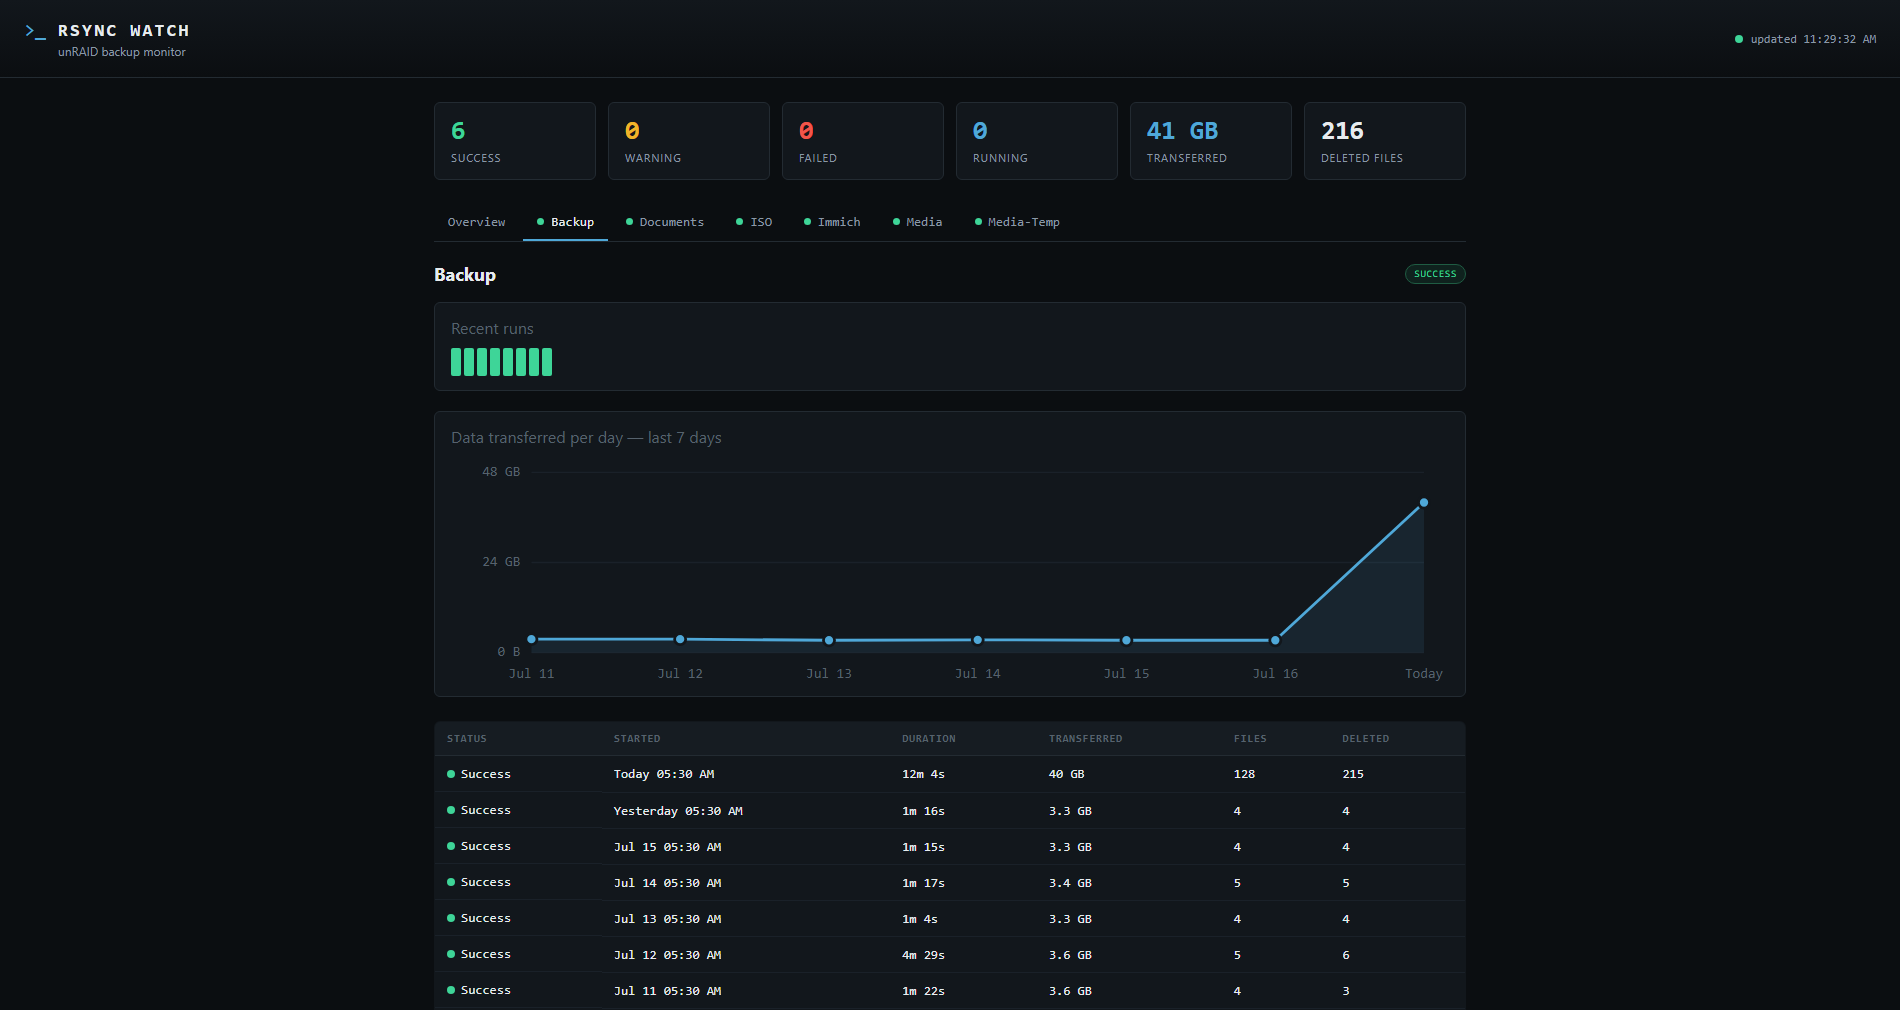
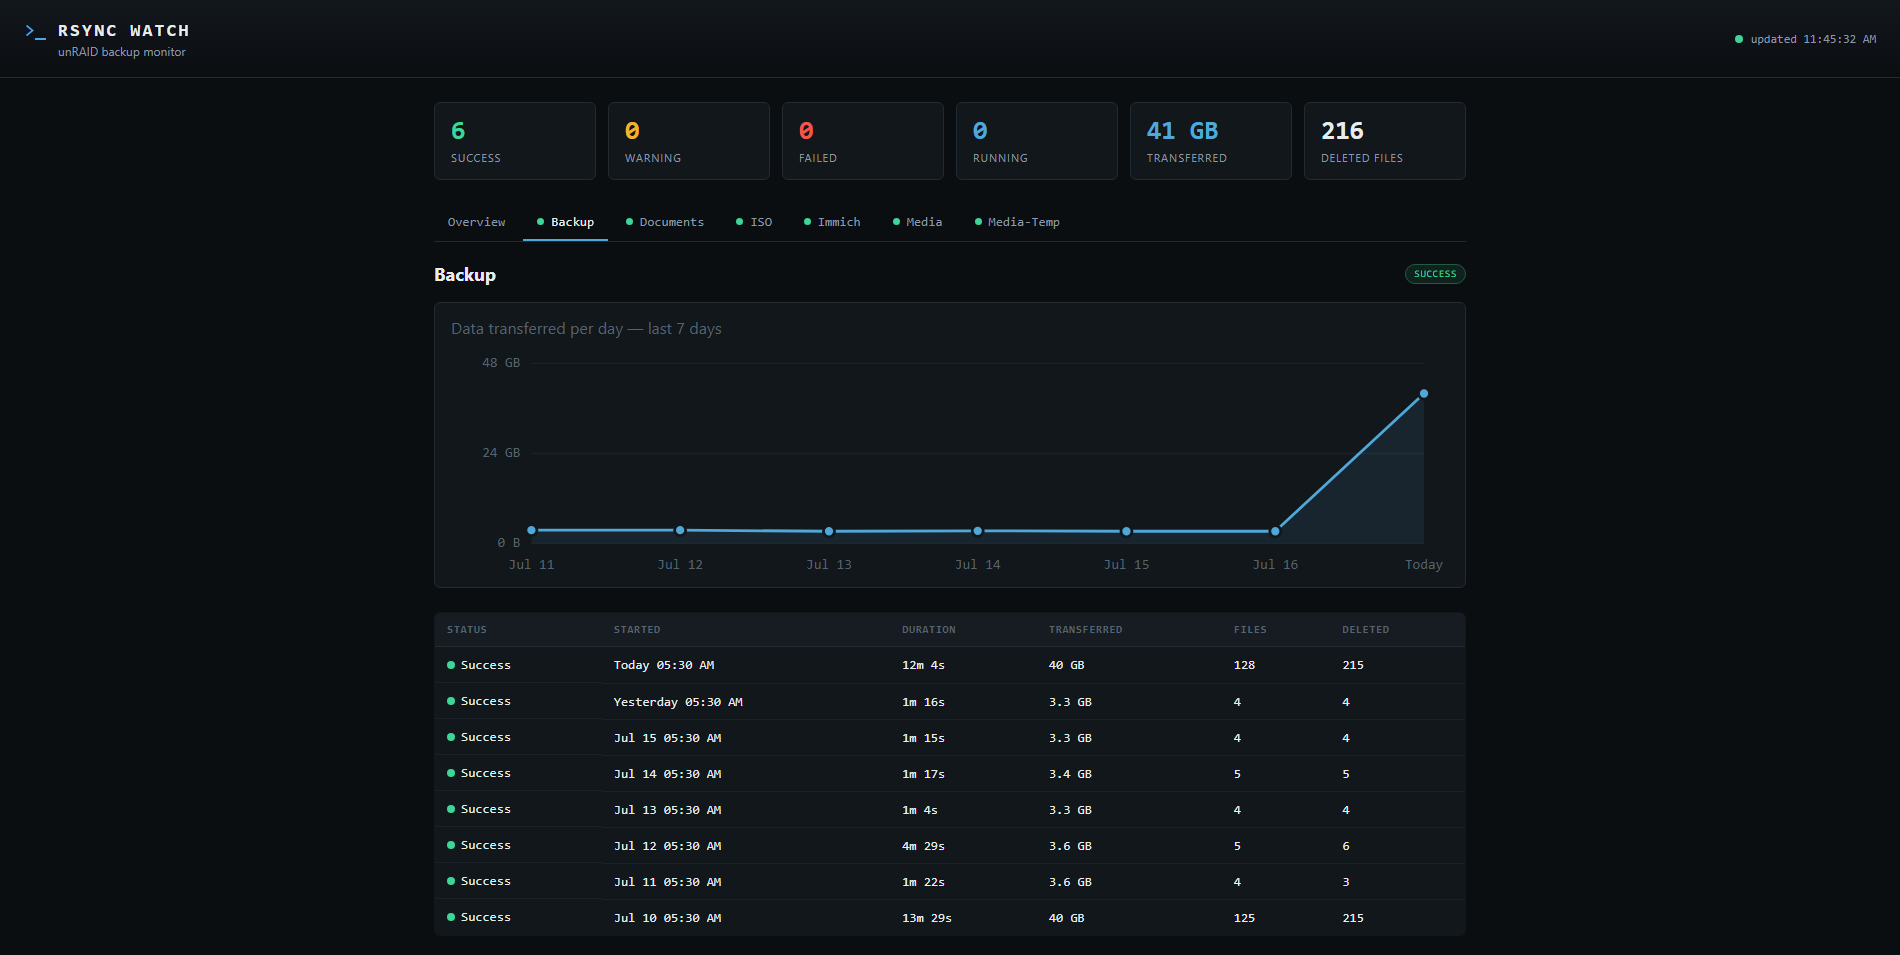
Remove the Recent runs strip from the job detail view
The pulse strip duplicated what the detail page already shows: the
per-day chart covers the trend and the runs table lists each run.
It stays on the overview job cards, where no table exists.

diff --git a/static/style.css b/static/style.css
@@ -343,14 +343,6 @@ main {
   margin: 0;
   font-size: 18px;
 }
-.job-detail__pulse {
-  background: var(--panel);
-  border: 1px solid var(--border);
-  border-radius: var(--radius);
-  padding: 14px 16px;
-  margin-bottom: 20px;
-}
-.job-detail__pulse .pulse-strip { height: 28px; margin-top: 10px; }
 .pulse-block { cursor: default; position: relative; }
 
 table.runs {

diff --git a/static/app.js b/static/app.js
@@ -232,10 +232,6 @@ function renderJobDetail(job, multiServer) {
       <h2>${escapeHtml(jobLabel(job, multiServer))}</h2>
       ${latest ? `<span class="badge badge--${escapeHtml(latest.status)}">${escapeHtml(STATUS_LABEL[latest.status] || latest.status)}</span>` : ""}
     </div>
-    ${runs.length ? `<div class="job-detail__pulse">
-      <div class="job-card__stat-label">Recent runs</div>
-      ${renderPulseStrip(runs, 28)}
-    </div>` : ""}
     ${renderTransferChart(job.daily_transfers, "Data transferred per day — last 7 days")}
     ${renderRunsTable(runs, key)}
   `;